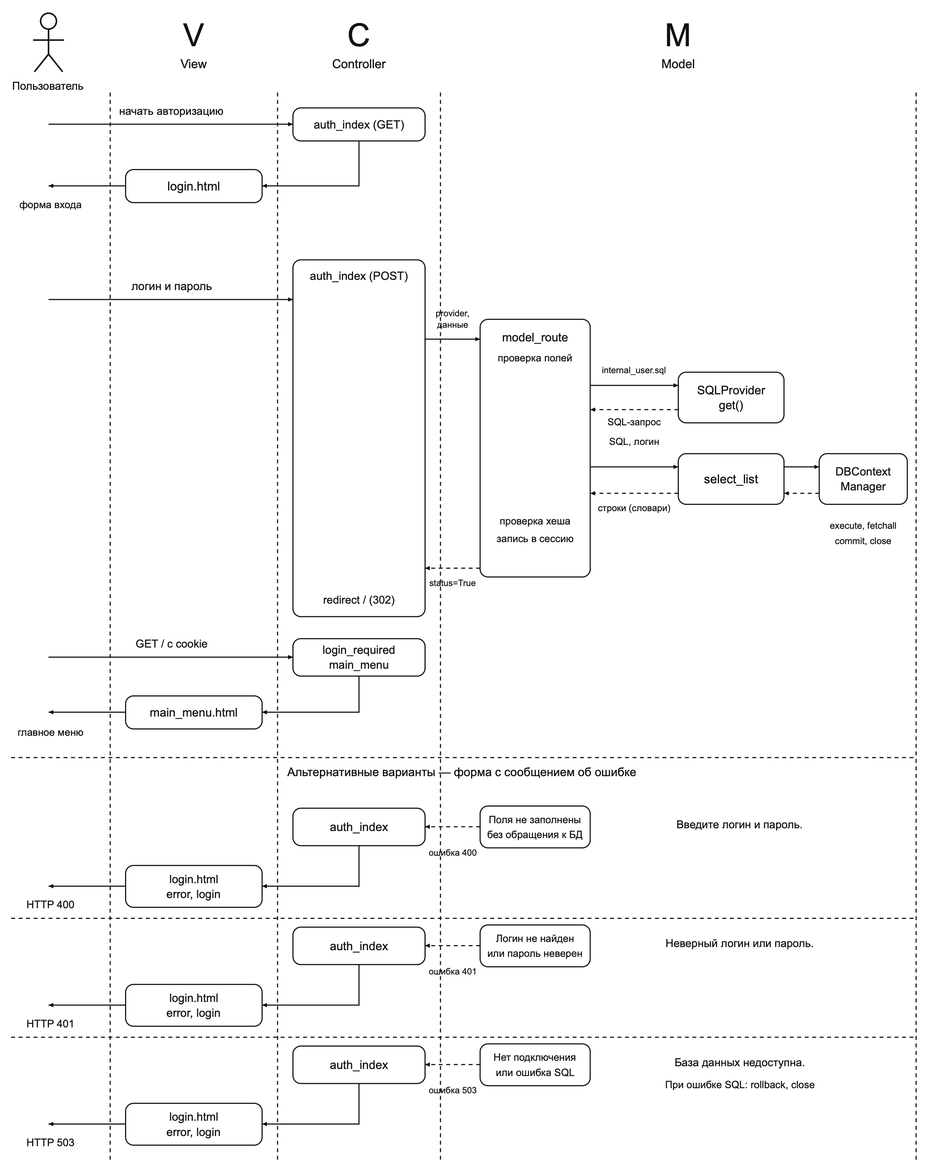
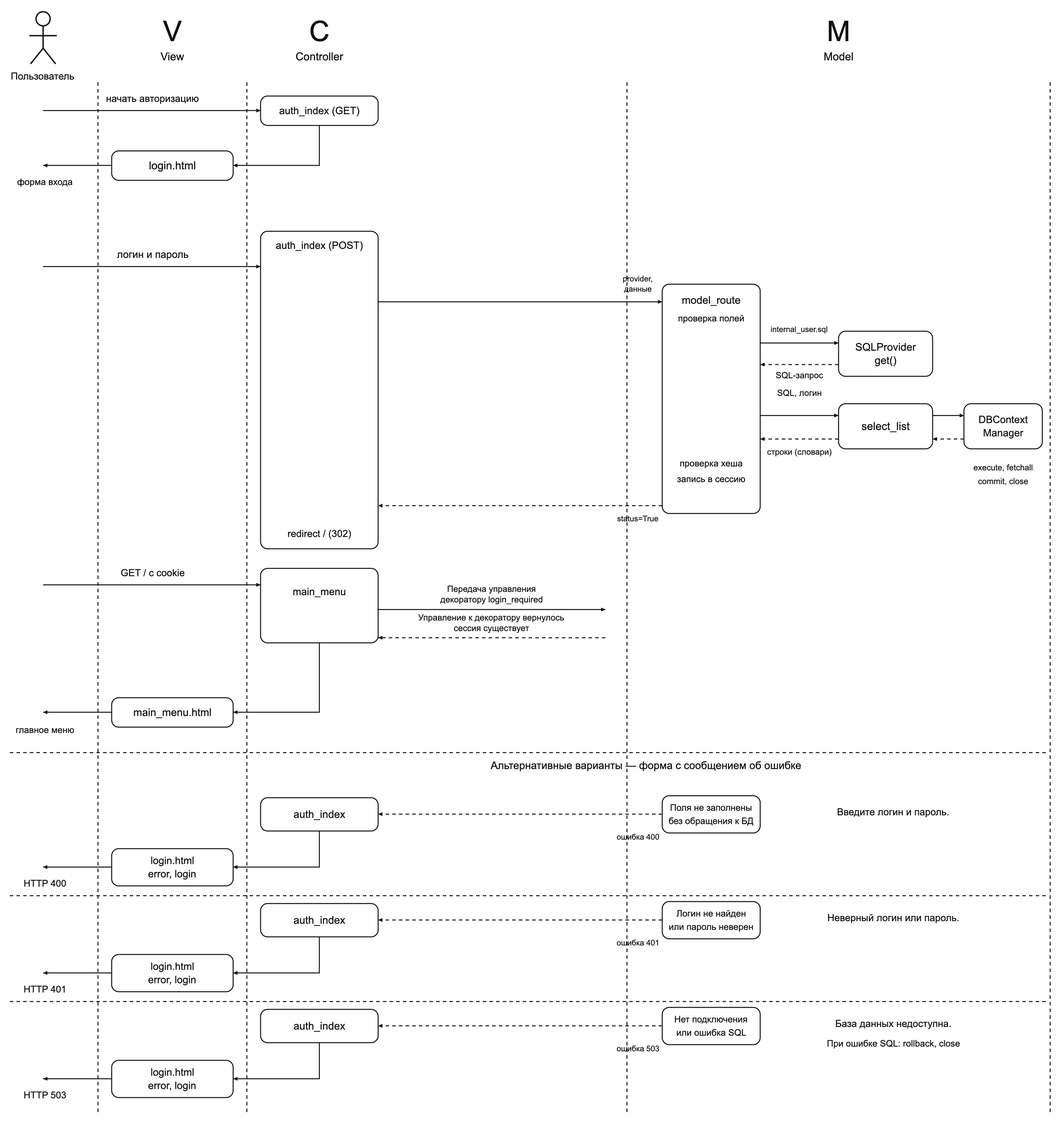
docs: исправить отчёт и диаграммы лабораторной 2

diff --git a/docs/course/lab2/report.md b/docs/course/lab2/report.md
@@ -10,9 +10,10 @@
 
 ## 2. Система авторизации внутренних пользователей
 
-Пользователь вводит логин и пароль. Система находит учётную запись в таблице `internal_user` и проверяет хеш пароля. При успешном входе идентификатор и группа пользователя сохраняются в сессии Flask, после чего открывается главное меню.
-
-Администратор (`admin`) имеет доступ к запросам. Кладовщик (`storekeeper`) может открыть главное меню и закончить работу, но не имеет доступа к запросам. Права групп заданы словарём `access.json` и проверяются декоратором `group_required`. Декоратор `login_required` проверяет авторизацию перед открытием главного меню. При завершении работы сессия очищается.
+1. **Кому раздаются права.** Внутренним пользователям ИС «Поставка заготовок».
+2. **На что раздаются права.** На выполнение вариантов использования системы. Обе группы после входа могут открыть главное меню и закончить работу. Администратору дополнительно доступна работа с запросами: просмотр заготовок выбранного типа, поставщиков выбранного города и накладных поставщика за период. Кладовщику работа с запросами недоступна. Права групп на запросы заданы в словаре `app/data/access.json` в соответствии с системной диаграммой вариантов использования.
+3. **Что должен ввести пользователь, чтобы авторизоваться.** Логин и пароль своей учётной записи в форме входа.
+4. **Чем заканчивается процесс авторизации.** При верных данных система сохраняет идентификатор и группу пользователя в сессии и показывает главное меню. При незаполненных полях или неверных данных пользователь остаётся на форме входа и видит сообщение об ошибке; он может исправить данные и повторить попытку. Если база данных недоступна, система сообщает об этом и предлагает попробовать позже.
 
 ## 3. Главное меню
 
@@ -27,29 +28,22 @@
 ### Основной успешный сценарий
 
 1. Пользователь открывает главную страницу системы.
-2. Система проверяет авторизацию с помощью декоратора `login_required`.
-3. Система показывает главное меню с пунктами «Работа с запросами» и «Закончить работу».
-4. Администратор выбирает «Работа с запросами».
-5. Система проверяет права группы и отображает меню запросов.
+2. Система показывает главное меню с пунктами «Работа с запросами» и «Закончить работу».
+3. Администратор выбирает «Работа с запросами».
+4. Система отображает меню запросов.
 
 ### Альтернативный сценарий и исключения
 
-- 2а. Пользователь не авторизован: система перенаправляет его на форму входа.
-- 4а. Пользователь выбирает «Закончить работу»: система очищает сессию и отображает страницу «До свидания».
-- 5а. У группы нет права на запросы: система показывает страницу «Доступ запрещён», HTTP 403.
 - 1а. Веб-сервер недоступен: пользователь повторяет открытие системы после восстановления соединения.
+- 1б. Пользователь не авторизован: система перенаправляет его на форму входа.
+- 3а. Пользователь выбирает «Закончить работу»: система очищает сессию и отображает страницу «До свидания».
+- 4а. У группы нет права на запросы: система показывает страницу «Доступ запрещён», HTTP 403.
 
 ### 3.1. Системная диаграмма Главного меню
 
 ![Системная диаграмма последовательности Главного меню](diagrams/main-menu.png)
 
 Рис. 2. Системная диаграмма последовательности Главного меню
-
-### 3.2. Требования к шаблонам
-
-- `main_menu.html`: название системы, заголовок «Главное меню», ссылки «Работа с запросами» и «Закончить работу».
-- `exit.html`: сообщение «До свидания» и ссылка «Войти снова».
-- `403.html`: сообщение «Доступ запрещён» и ссылка в главное меню.
 
 ## 4. Авторизация
 
@@ -59,16 +53,14 @@
 
 **Предусловия:** Приложение запущено; в БД создана учётная запись пользователя.
 
-**Гарантия успеха:** Параметры пользователя сохранены в сессии; отображено главное меню.
+**Гарантия успеха:** Пользователь вошёл в систему; отображено главное меню.
 
 ### Основной успешный сценарий
 
 1. Пользователь начинает авторизацию.
 2. Система показывает форму ввода логина и пароля.
 3. Пользователь вводит данные и нажимает «Войти».
-4. Система проверяет логин и пароль.
-5. Система сохраняет идентификатор и группу пользователя в сессии.
-6. Система передаёт управление в главное меню.
+4. Система показывает главное меню.
 
 ### Альтернативы и исключения
 
@@ -82,10 +74,6 @@
 ![Системная диаграмма последовательности авторизации](diagrams/authorization.png)
 
 Рис. 3. Системная диаграмма последовательности авторизации
-
-### 4.2. Требования к шаблону
-
-`login.html`: заголовок «Авторизация», обязательные поля «Логин» и «Пароль», кнопка «Войти». Пароль отображается скрытым вводом. Форма отправляется методом POST. При ошибке выводится сообщение с сохранением логина; пароль в форме не сохраняется.
 
 ## 5. База данных и запросы индивидуального варианта
 
@@ -109,8 +97,4 @@
 2. Поставщики выбранного города: номер, название, город, телефон и дата договора.
 3. Накладные поставщика за период: номер, дата, поставщик и сумма. Обе граничные даты включаются целиком, время учитывается по Москве.
 
-Начальные данные содержат поставки за февраль — апрель 2020 года. Остатки и даты обновления рассчитываются при заполнении по строкам накладных; суммы накладных соответствуют суммам их строк. В рамках ЛР‑2 данные доступны только для чтения. Разработка процедуры и триггера из индивидуального задания отложена по согласованию с владельцем.
-
 Учебные записи: `admin` / `admin` и `storekeeper` / `storekeeper`. Это группы пользователей приложения; подключение к PostgreSQL задаётся отдельно в конфигурации.
-
-Порядок создания БД, загрузки данных, запуска приложения и проверок приведён в [README](../../../README.md). Проверки PostgreSQL запускаются при заданной переменной `LAB1_TEST_DB_CONFIG` и используют собственную временную схему; проверяют запросы, раздельные остатки по ценам, согласованность начальных данных, ограничения БД, авторизацию обеих групп и транзакции.

diff --git a/docs/templates/report.md b/docs/templates/report.md
@@ -1,0 +1,65 @@
+# Шаблон отчёта по лабораторной работе
+
+## Как заполнять
+
+1. Сначала прочитайте задание нужной лабораторной в `docs/course/labN/task.md`. Состав разделов берите из задания; приведённую ниже карточку повторяйте для каждого требуемого варианта использования.
+2. Скопируйте заготовку из раздела «Заготовка отчёта» в `docs/course/labN/report.md`. Замените все значения в угловых скобках. Этот файл с инструкциями в отчёт не переносите.
+3. Описание авторизации заполняйте по [шаблону описания системы авторизации](blueprint-description.md): кому выдаются права, на какие действия, что вводит пользователь и чем заканчивается авторизация. Технические подробности помещайте в соответствующее описание или диаграмму.
+4. В основном успешном сценарии описывайте взаимодействие с системой с точки зрения пользователя: что он открывает, вводит или выбирает и что система ему показывает. Один шаг — одно действие пользователя или один видимый ответ системы. Например: «Пользователь вводит логин и пароль и нажимает “Войти”» → «Система показывает главное меню».
+5. Внутренние вызовы обработчиков, проверки декораторов, SQL-запросы, запись в сессию и перенаправления не выделяйте в шаги пользовательского сценария. Отражайте их на диаграмме последовательности. Гарантию успеха формулируйте через результат, доступный пользователю.
+6. Нумеруйте шаги каждого сценария подряд с 1. После удаления или добавления шагов обновляйте номера и ссылки в альтернативах: `3а` означает ответвление от шага 3. Несколько ответвлений одного шага обозначайте `3а`, `3б`, `3в`. Не восстанавливайте намеренно удалённые пункты только ради сохранения старых номеров.
+7. На диаграмме последовательности показывайте обработчики в колонке Controller. Декоратор не изображайте отдельным прямоугольником и не включайте его имя в прямоугольник обработчика. От обработчика проведите исходящую стрелку со словами «Передача управления декоратору <имя>» и входящую стрелку со словами «Управление к декоратору вернулось»; рядом укажите результат проверки. Для отказа покажите соответствующий ответ: форму входа или страницу запрета доступа. Это условное обозначение проверки доступа; в коде обёртка декоратора проверяет доступ до выполнения тела обработчика.
+8. Изменяя диаграмму, обновляйте и SVG-исходник, и PNG, на который ссылается отчёт. Проверьте читаемость подписей и отсутствие наложений.
+9. Перед сдачей проверьте непрерывность нумерации разделов, шагов и рисунков, соответствие альтернатив шагам, наличие файлов изображений и соответствие текста диаграммам. Удалённые владельцем разделы не возвращайте без его решения. Если требования задания расходятся с согласованным составом отчёта, вынесите расхождение владельцу.
+
+## Заготовка отчёта
+
+```markdown
+# Лабораторная работа № <номер>. <Название>
+
+Индивидуальный вариант <номер> — «<Название системы>».
+
+## 1. <Раздел по заданию: например, системная диаграмма вариантов использования>
+
+![<Описание изображения>](diagrams/<имя>.png)
+
+Рис. 1. <Название рисунка>
+
+## 2. <Раздел по заданию: например, система авторизации>
+
+<Описание по требованиям задания и соответствующему шаблону.>
+
+## 3. <Название варианта использования>
+
+**Название варианта использования:** <Название>.
+
+**Основной актор:** <Роль пользователя>.
+
+**Предусловия:** <Условия, выполненные до начала сценария>.
+
+**Гарантия успеха:** <Доступный пользователю результат>.
+
+### Основной успешный сценарий
+
+1. Пользователь <действие в интерфейсе>.
+2. Система показывает <страницу или форму>.
+3. Пользователь <выбирает действие или отправляет данные>.
+4. Система показывает <результат>.
+
+### Альтернативы и исключения
+
+- 1а. <Условие ответвления от шага 1>: <видимый результат и способ продолжения либо завершение>.
+- 4а. <Условие ответвления от шага 4>: <сообщение системы и способ исправления либо завершение>.
+- 4б. <Другое условие ответвления от шага 4>: <видимый результат>.
+
+### 3.1. Системная диаграмма последовательности <название>
+
+![Системная диаграмма последовательности <название>](diagrams/<имя>.png)
+
+Рис. 2. Системная диаграмма последовательности <название>
+
+<Повторите карточку для следующего варианта использования;
+продолжайте нумерацию разделов и рисунков, а шаги начинайте с 1.>
+
+<Остальные разделы включите согласно заданию и решениям владельца.>
+```

diff --git a/docs/templates/blueprint-description.md b/docs/templates/blueprint-description.md
@@ -1,0 +1,5 @@
+# Описание системы авторизации
+1. кому раздаются права
+2. на что раздаются права
+3. что должен ввести пользователь, чтобы авторизоваться
+4. чем заканчивается процесс авторизации
